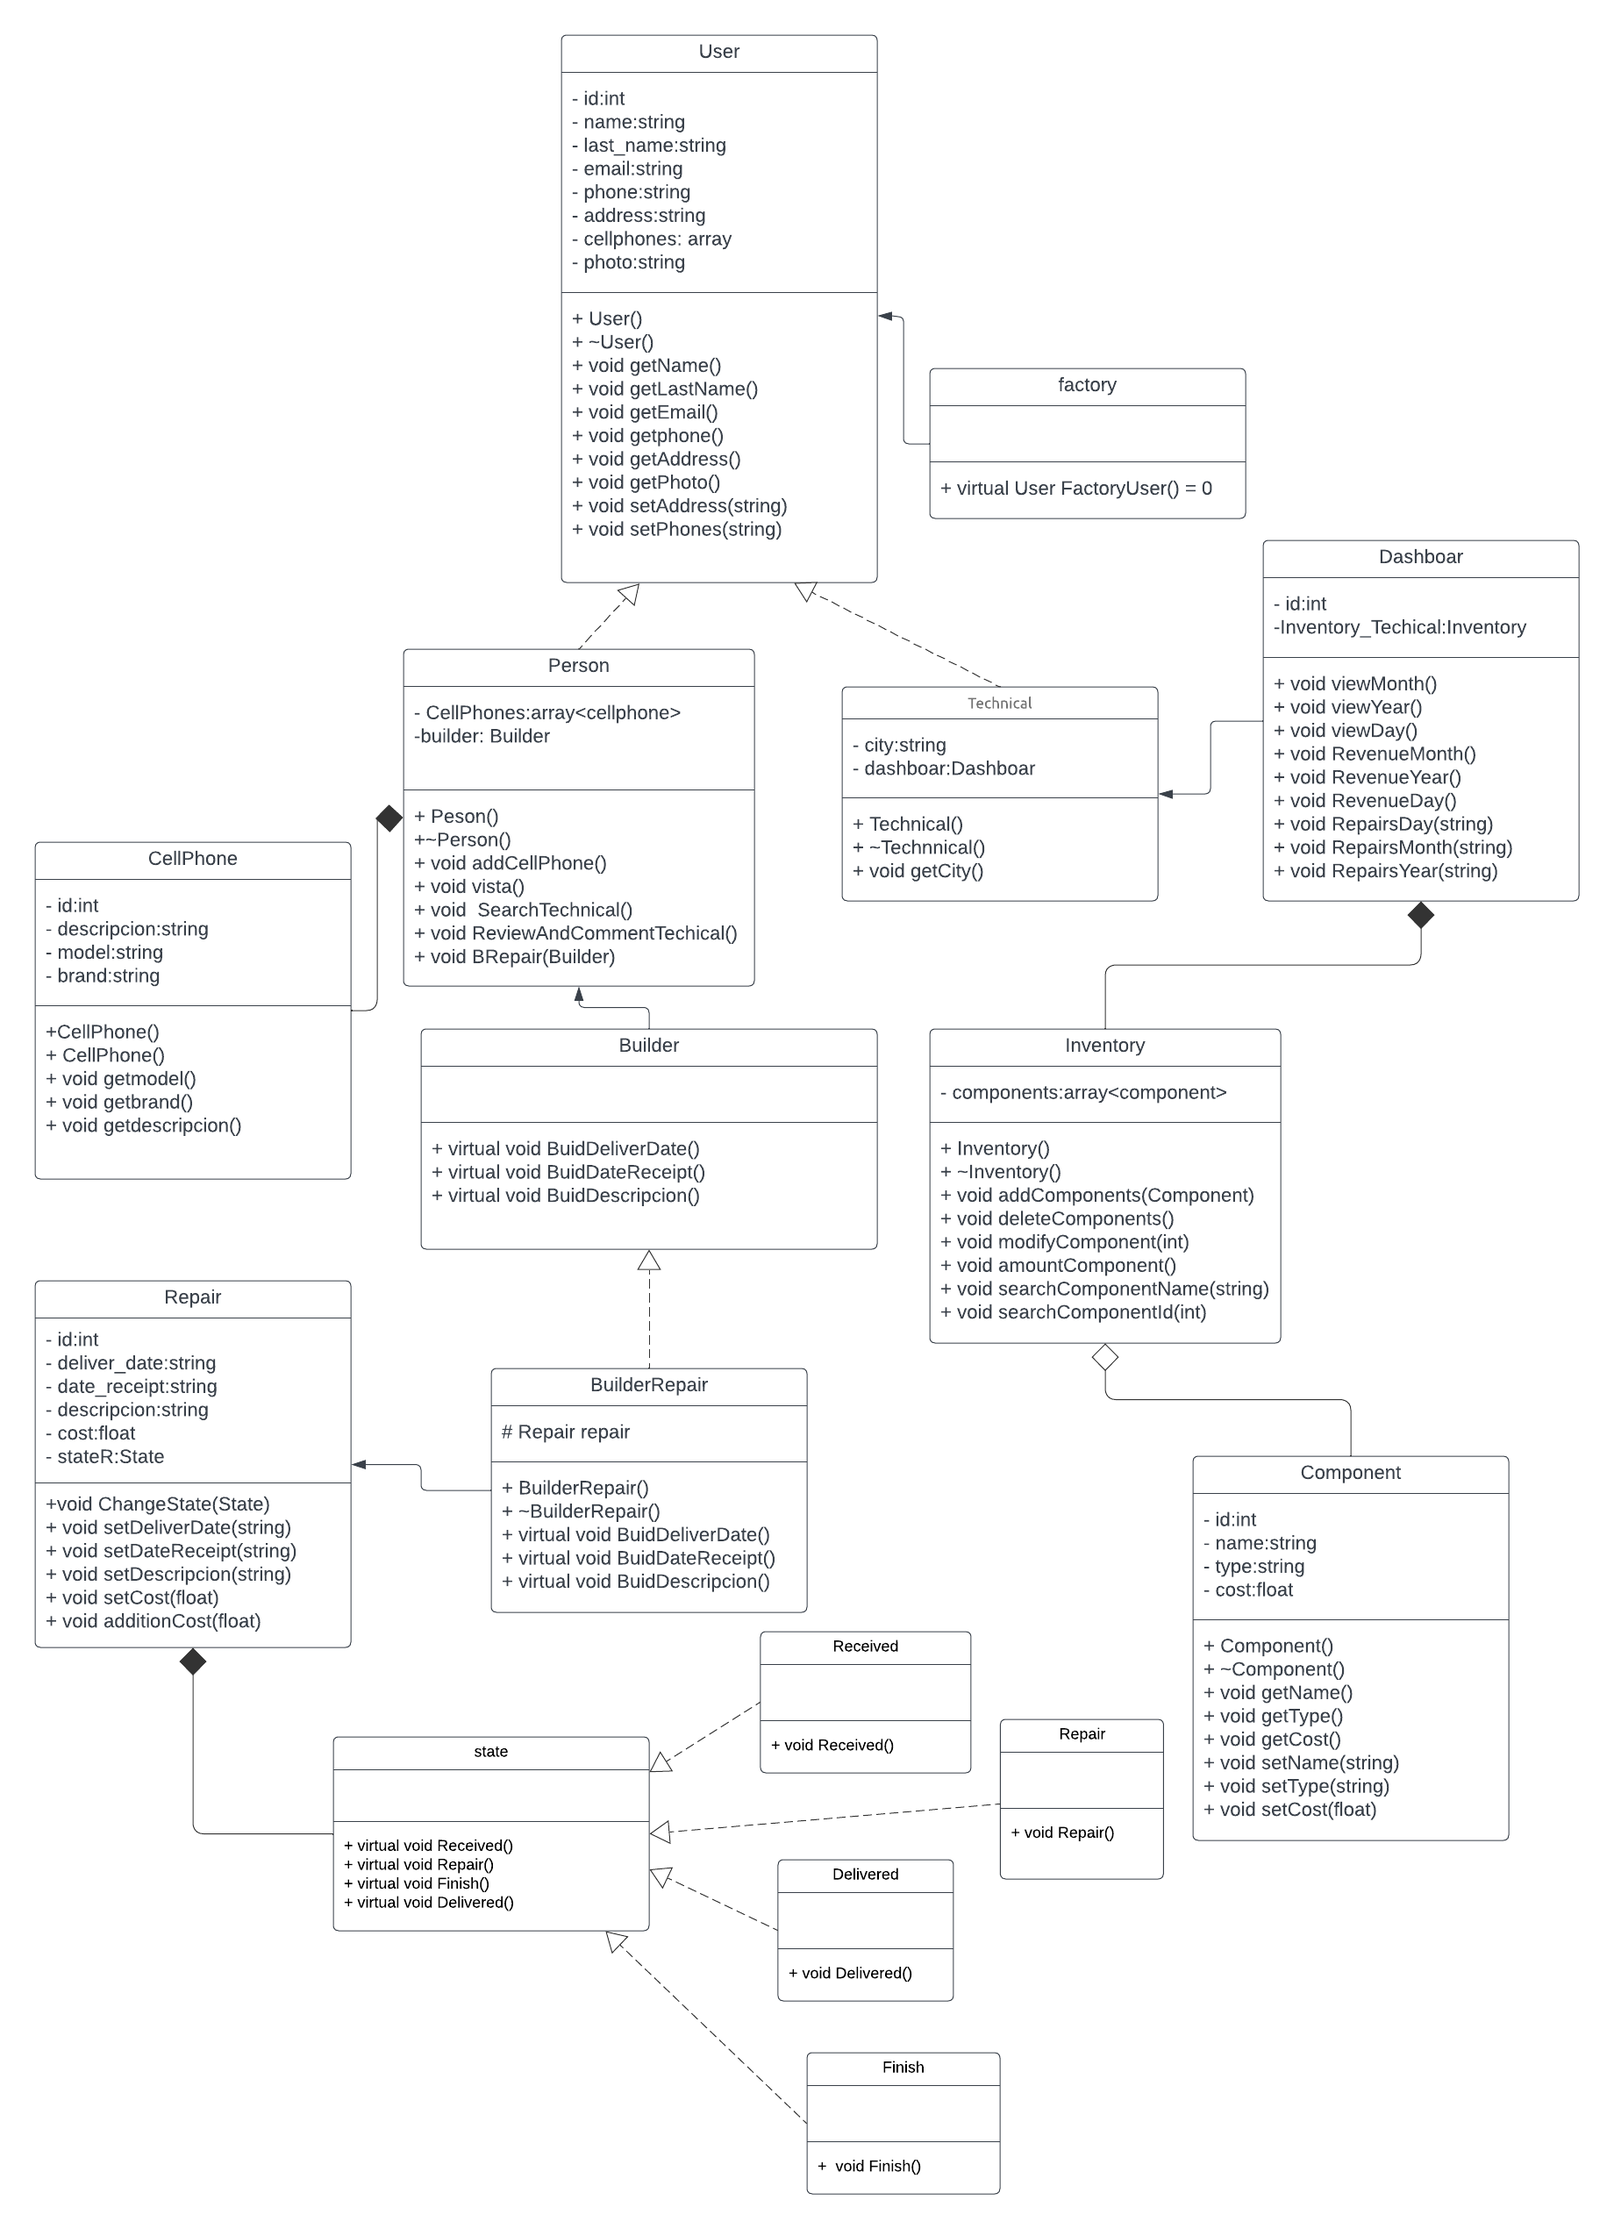
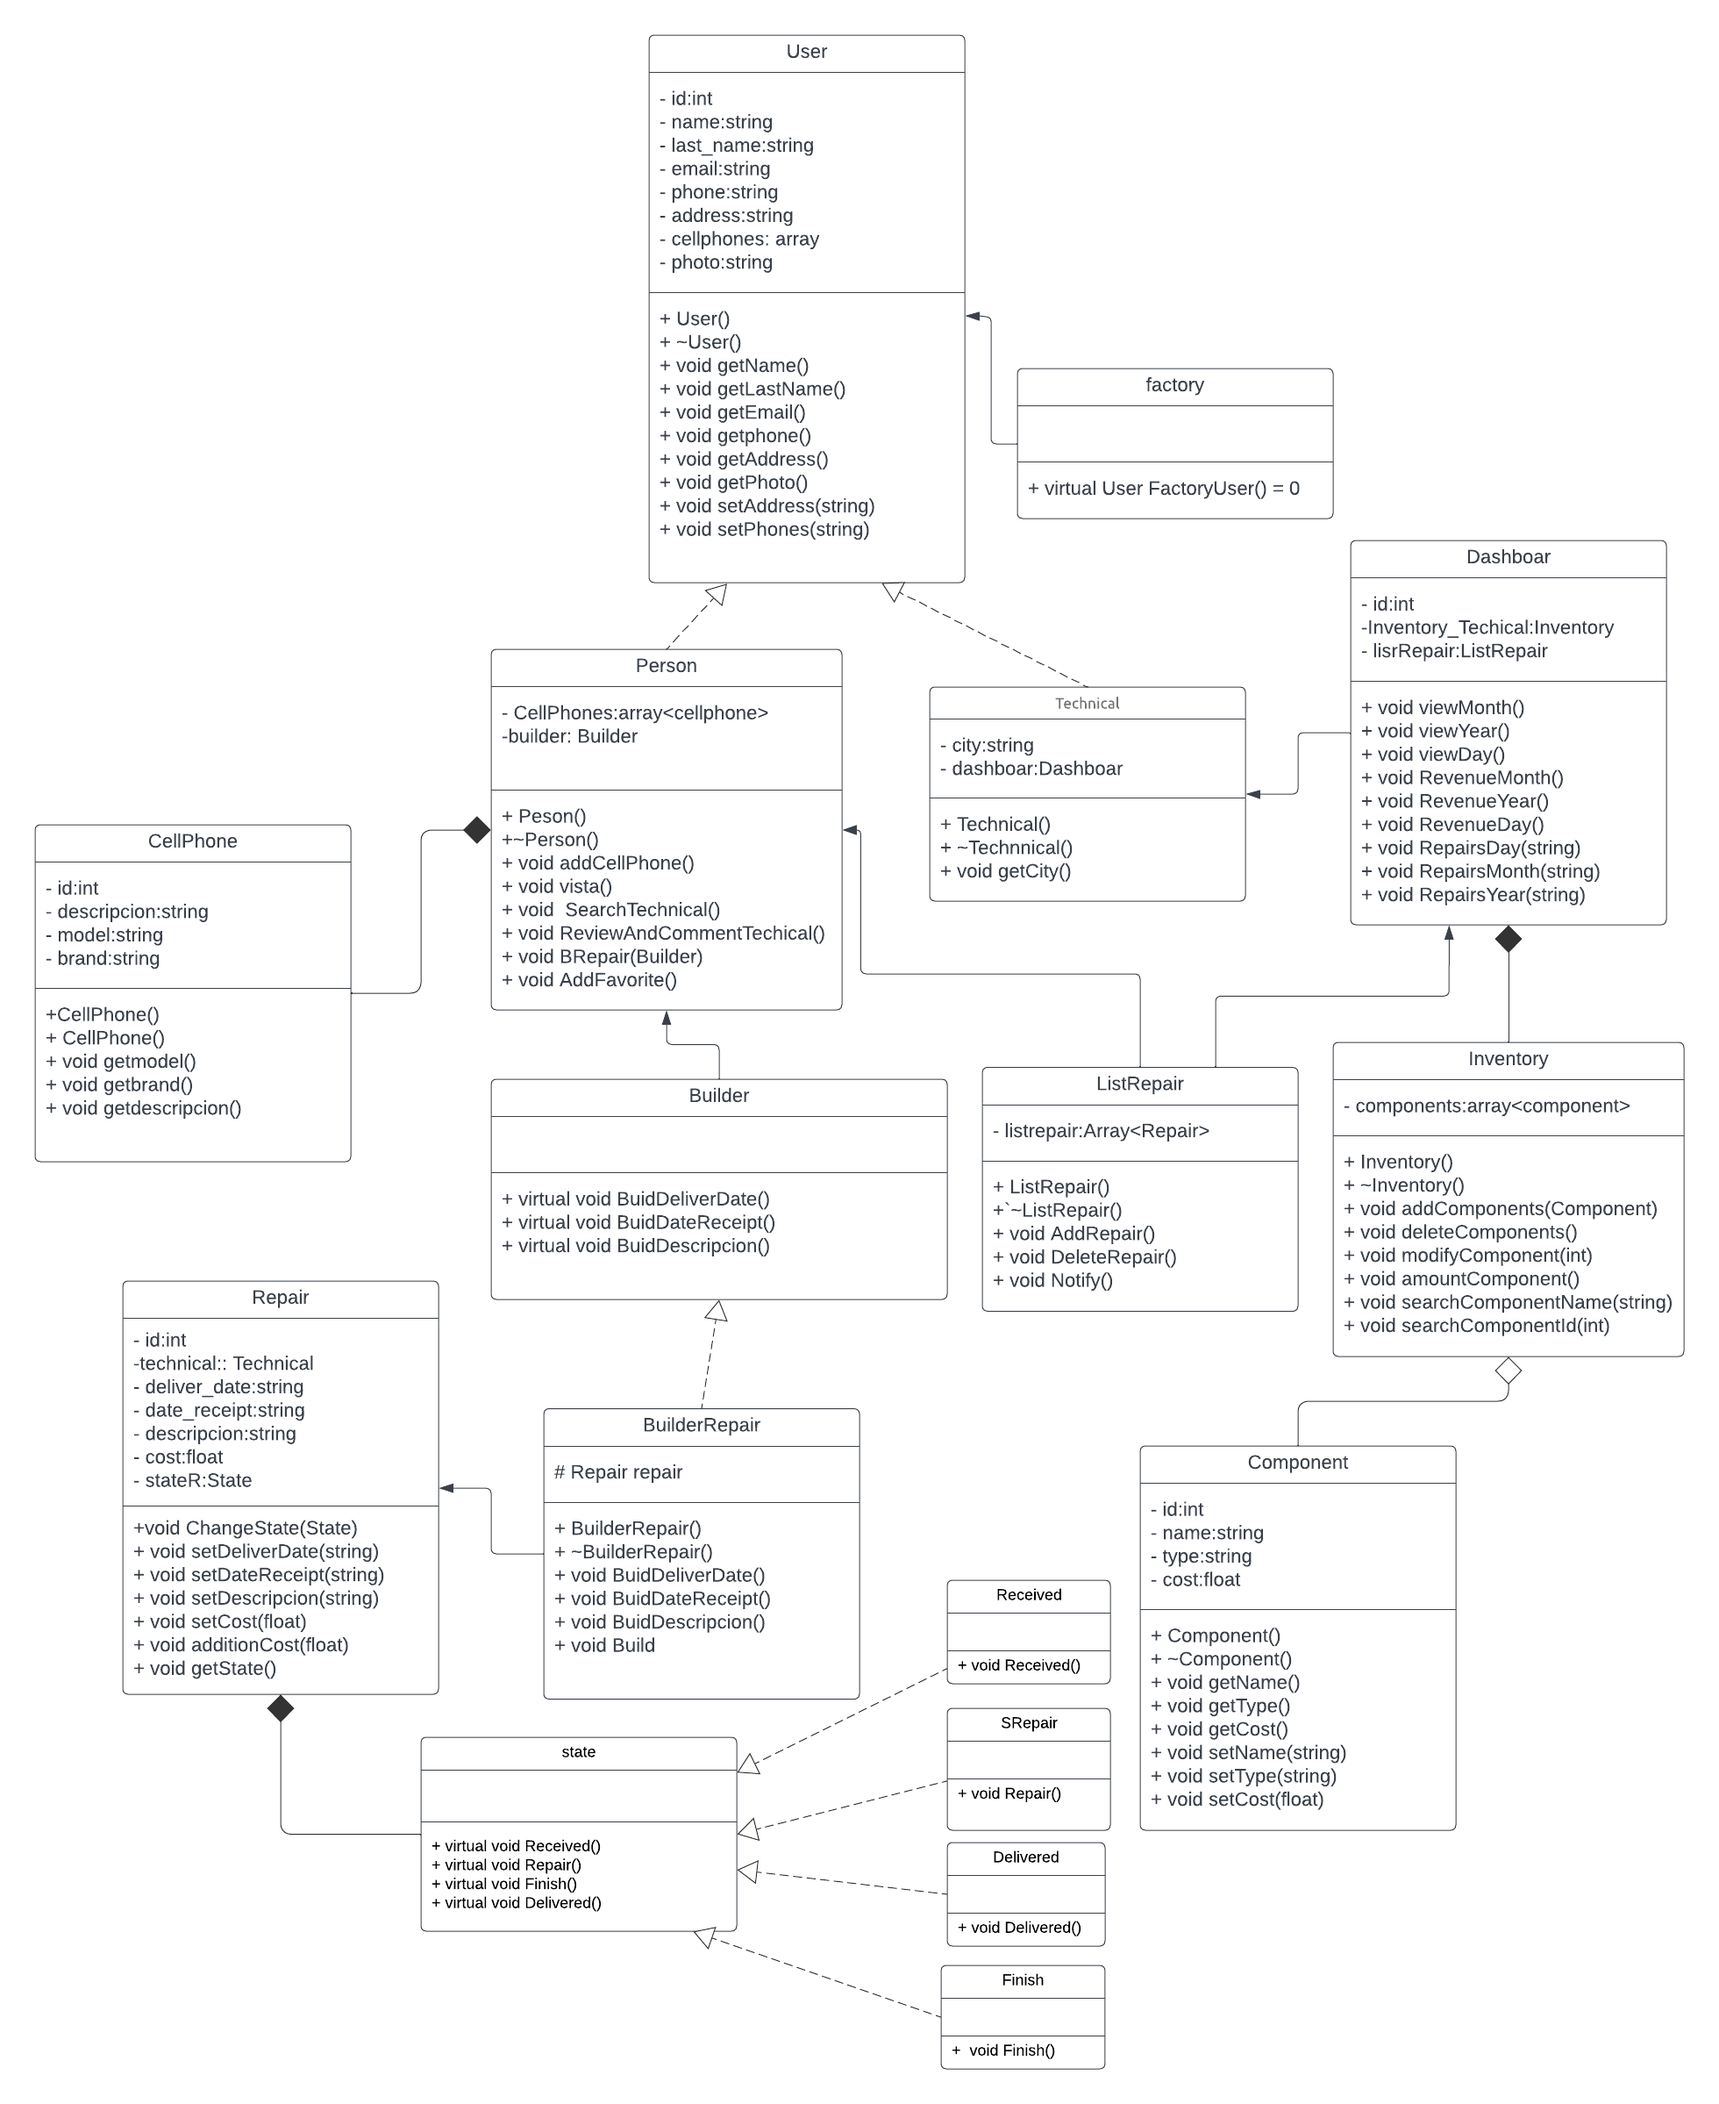
Doc (Capitulo IV): Modify class Dictionary and DC

diff --git a/Docs/Capitulo IV/4.7 Software Object-Oriented Design/4.7.2. Class Dictionary.md b/Docs/Capitulo IV/4.7 Software Object-Oriented Design/4.7.2. Class Dictionary.md
@@ -1,1 +1,32 @@
 # 4.7.2. Class Dictionary
+En esta seccion se mostrara el diccionario de las clases usado para el desarrollo de nuestra solucion.
+
+* __User:__ Clase padre de las clase Person y Technical.Contiene atributos basicos y metodos que heredan sus hijos.
+* __Person:__ Clase hija de la clase User que puede buscar tecnicos,realizar una reseña,pedir una reparacion y añadir a favoritos a los tecnicos
+* __Technical:__ Clase hija de la clase User, que tiene de atributos a Dashboard y city propios de este mismo
+* __Factory:__ Clase que permite la creacion de un diferente tipo de usuario ya sea Person y Technical
+
+* __CellPhone:__ Clase que es parte de Person,pues una Person tiene varios celulares 
+
+* __State:__ Clase que permite cambiar el estado de la reparacion
+
+* __Received:__ Clase hija de State que define el estado de Recibido.
+
+* __SRepair:__ Clase hija de State que define el estado de Reparacion.
+
+* __Delivered:__ Clase hija de State que define el estado de Entregado.
+
+* __Finish:__ Clase hija de State que define el estado de finalizado.
+
+* __BuilderRepair:__ Clase hija de Builder que especifica la construccion de una reparacion.
+
+* __Builder:__ Clase padre de BuildeRepair que tiene metodos virtuales que permite cambiarlos en la clase hija.Esto es escencial para la construccion de diferente tipos de reparaciones
+
+* __DashBoar:__ Clase que pertenece al tecnico,donde se puede realizar la peticion de mostrar ingresos,visitas y mayor servicio realizado (por mes,año y dia).Ademas de permitirnos acceder al inventario de componentes asociado al tecnico.
+
+* __Inventory:__ Clase que permite almacenar objetos de la clase componente,modificarlos,añadirlos,eliminar,buscar por id o por nombre.
+
+* __Component:__ Clase que es parte del inventario. Dado que un componente esta almacenado en un inventario.
+
+
+* __ListRepair:__ Clase que que guarda las reparaciones realizadas por el usario para luego para luego el tecnico lo pueda ver.
